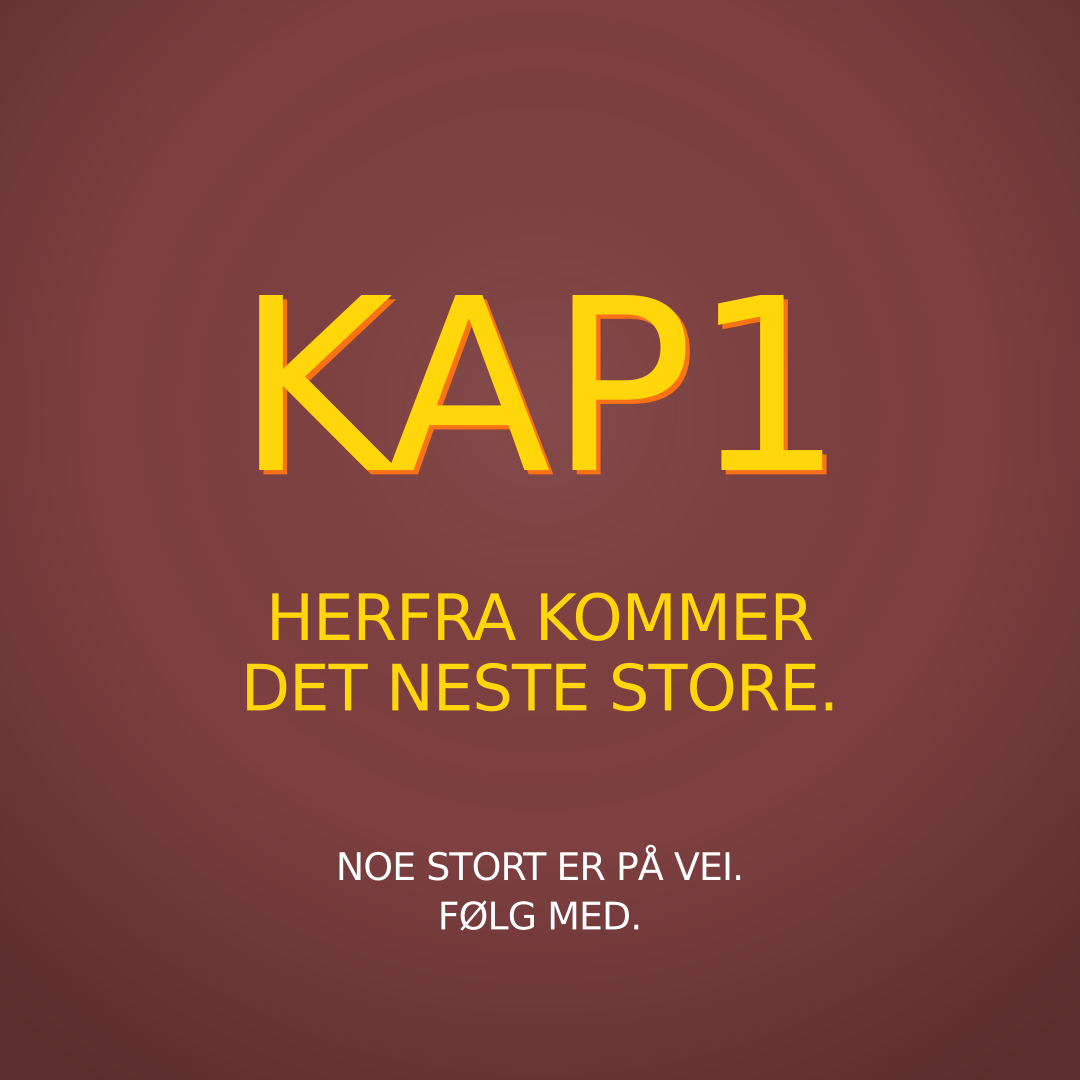
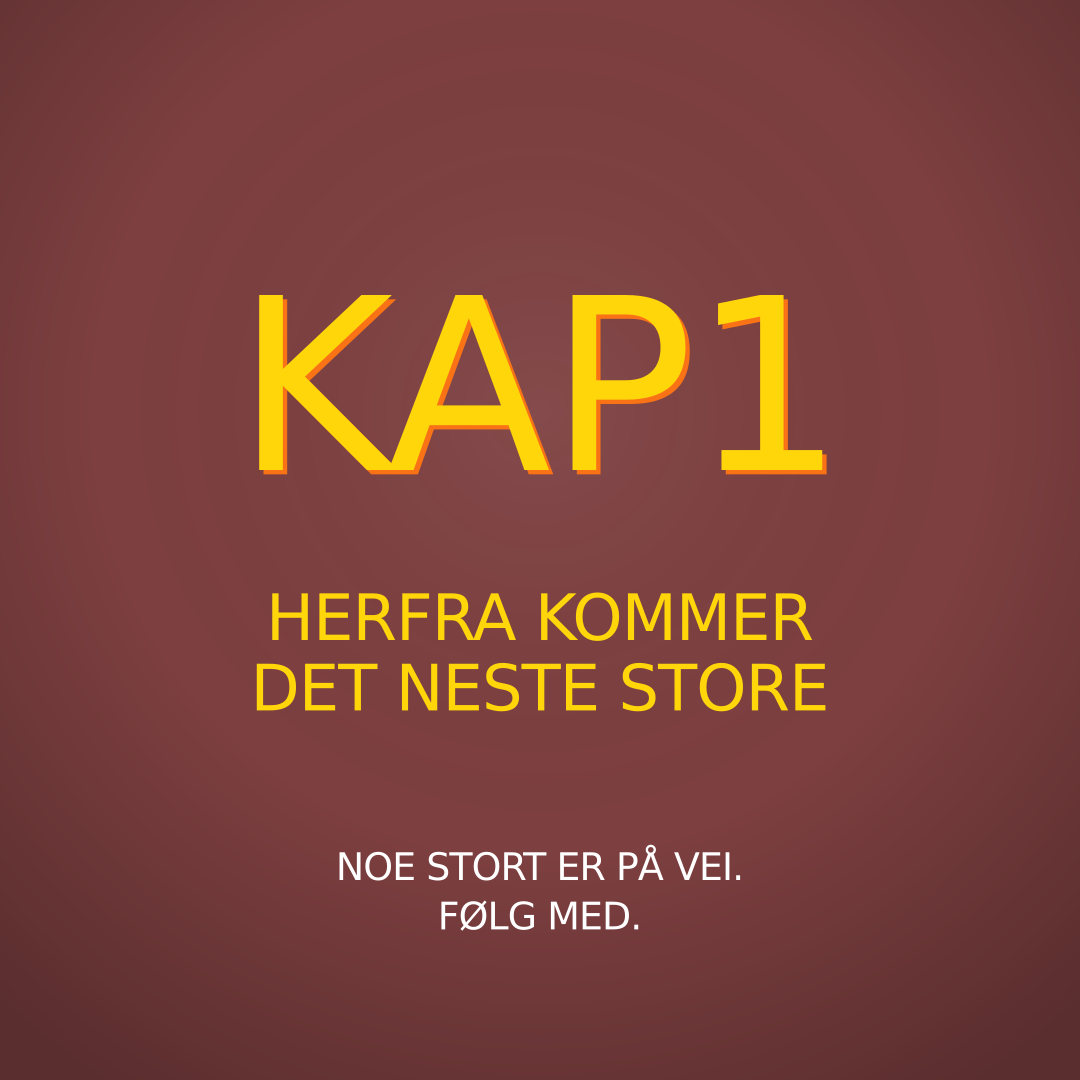
Remove trailing period from "Herfra kommer det neste store" tagline
Updates the hero tagline, footer, and the teaser Instagram post.

Claude-Session: https://claude.ai/code/session_01SiQunGQsJ8T7tc48k2ARdp

Changed region(s): [[0.2139, 0.6111, 0.7639, 0.6722]]

diff --git a/app/page.jsx b/app/page.jsx
@@ -38,7 +38,7 @@ export default function Page() {
         </div>
 
         <p className="mt-6 font-display text-xl uppercase tracking-[0.12em] text-brand-yellow sm:text-2xl">
-          Herfra kommer det neste store.
+          Herfra kommer det neste store
         </p>
 
         <p className="mt-6 max-w-xl text-lg leading-relaxed text-white/80">
@@ -116,7 +116,7 @@ export default function Page() {
           </a>
         </p>
         <p className="mt-2 text-xs text-white/40">
-          © {new Date().getFullYear()} KAP1. Herfra kommer det neste store.
+          © {new Date().getFullYear()} KAP1. Herfra kommer det neste store
         </p>
       </footer>
     </main>
